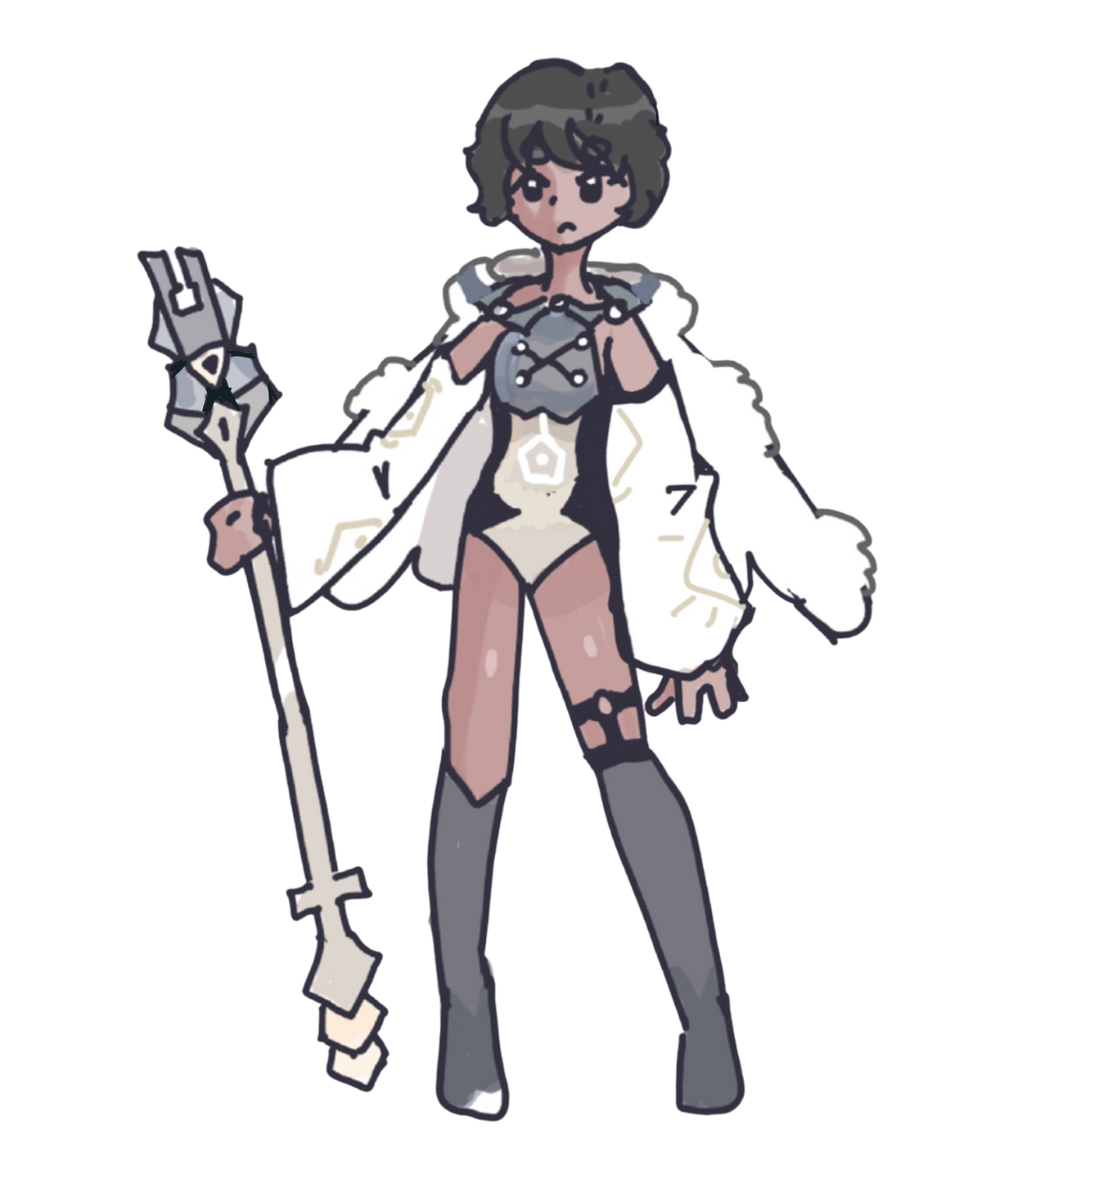
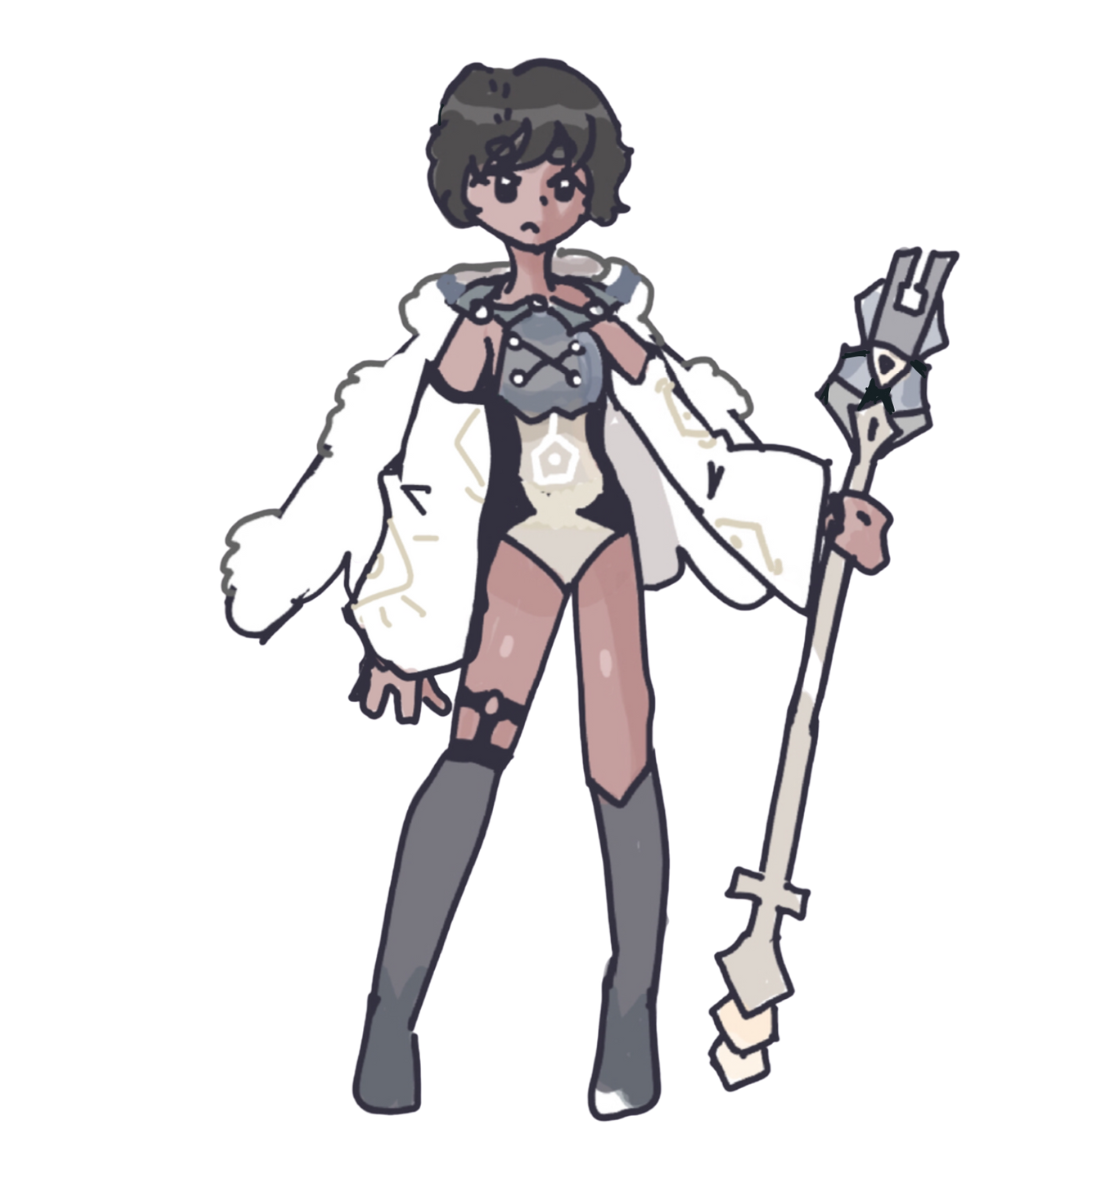
loading sprites

Changed region(s): [[0.124, 0.0306, 0.8678, 0.9779]]

diff --git a/Player.js b/Player.js
@@ -21,11 +21,14 @@ class Player {
         this.grounded = false;
         this.mRight = false;
         this.mLeft = false;
+        this.fRight = true;
 
         //RENDER REQUIRED 
         this.w = width;
         this.h = height;
-        this.color = "red"
+        this.sprites = {
+            idle: loadImage('char/AnnabellaMoerbeck.png')
+        }
 
         //option mods
         this.options = options
@@ -125,10 +128,12 @@ class Player {
 
     moveRight() {
         this.mRight = true;
+        this.fRight = true;
     }
 
     moveLeft() {
         this.mLeft = true;
+        this.fRight = false;
     }
 
     updateMove() {
@@ -173,11 +178,16 @@ class Player {
         let pos = this.body.position;
         let angle = this.body.angle;
         push();
-        fill(this.color)
+        // fill(this.color)
         translate(pos.x, pos.y - this.h/3);
         rotate(angle);
-        
         rect(0,0,this.w,this.h);
+        if(this.fRight) {
+            image(this.sprites.idle,0,0,this.w, this.h);
+        } else {
+            scale(-1,1)
+            image(this.sprites.idle,0,0,this.w, this.h);
+        }
         pop();
     }
 }

diff --git a/gl.js b/gl.js
@@ -20,6 +20,7 @@ let player2;
 
 function setup() {
     rectMode(CENTER);
+    imageMode(CENTER);
     gm = new Game(700, 600);
     engine = Engine.create();
     runner = Runner.create();
@@ -27,7 +28,7 @@ function setup() {
     
     gm.addGround(width/2, height-20, width, 40)
 
-    player1 = gm.addPlayer(120,80, 30, 80, "Aurelian")
+    player1 = gm.addPlayer(120,80, 120, 120, "Aurelian")
     player2 = gm.addPlayer(300,80, 30, 80, "Bastilan")
 
     player2.setColor("green")
